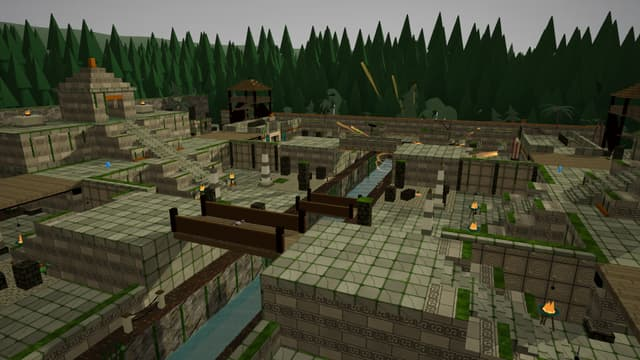
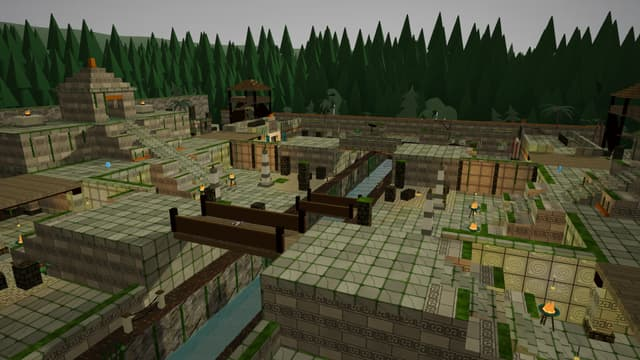
Jungle Ruins refresh: Vinefall Sanctum QA report, map card recaptured, HANDOFF
Checks after merging main: typecheck, test:changed (3 load timeouts pass alone),
bundle 824.1 kB gzip / 2922.9 kB raw, validate-map on vinefall_sanctum and the old
jungle maps, e2e editor, editorux, maps, visual (CI=1) all pass.

Claude-Session: https://claude.ai/code/session_01PfNGaHafsFeFAcWZgUEzoB

diff --git a/HANDOFF.md b/HANDOFF.md
@@ -289,7 +289,7 @@ lantern(_post), banners, signpost, wooden fences. New in-house: timber/plaster h
 square, town gate, bell tower, bridge, well, shop fronts, awnings, balconies, cobble/market/road materials.
 Meshy candidates awaiting approval: blacksmith forge, hay cart, covered well, tarp tent.
 
-### Jungle Ruins refresh (`wip/jungle-ruins-pack`, agent, 2026-10-31; stopped early, not merged)
+### Jungle Ruins refresh (`wip/jungle-ruins-pack`, agent, 2026-10-31; main merged in, ready for a check branch, not merged)
 Owner sheets TILESET 04 Jungle Ruins + TILESET 07 Ancient Temple, combined into Style Pack 06 Jungle Ruins.
 - **Done (committed):** 20 new tiles in `packages/shared/src/map/packTilesJungle.ts` (Temple Terrace, Terrace
   Stair (stack them a level up into ziggurats), Carved Temple 2 × 1 (gate on the west cell's south edge fits the
@@ -309,11 +309,26 @@ Owner sheets TILESET 04 Jungle Ruins + TILESET 07 Ancient Temple, combined into 
 - **Zipline:** no zipline mechanic exists (only the Grapple Hook). `jt_zipline_post` is scenery; the pack lists
   the Grapple Hook to cross between posts. A real zipline ride is an owner decision (new movement mechanic).
 - **Stand-ins (stable ids, Meshy only with owner approval):** jt_statue_large, jt_crane, jt_zipline_post.
-- **Not done / next:** BUILDING_KIT "06 Jungle Ruins" section (note Ancient Temple folded in; list the above),
-  CHANGELOG Unreleased line, `docs/map-briefs/vinefall_sanctum/` manifest/QA/decisions docs (like market_town),
-  e2e (editor, editorux, maps E2E_MAPS=vinefall_sanctum,jungle_steps, visual) not run; full `pnpm test:changed`
-  not run (jungle, kit, stylePacks*, content:check, typecheck, build passed). Bot audit/perf not run. Map's
-  `metadata.release` came from MapMaker's Export (other repo maps have none; strip if preferred).
+- **Merged with main (2026-10-31 evening):** main (Medieval fixes, Harbor 11, Snow 12, Desert City 09) merged in;
+  the shared pack files took main's version with the jungle additions re-applied next to the other packs
+  (PatternId / PAINTERS / FINE_PATTERNS, materials, `core.ancient_temple` theme and backdrop, catalog import,
+  STYLE_PACKS entry keeps `/* @__PURE__ */`). No id collisions (patterns slabs/fret/relief/inlay/roots/thatch,
+  the 8 materials, theme, jt_* props, jungle.* tiles are all unique), so nothing renamed. Generated files rebuilt
+  as "Work split" says: props.json/lock = main's + jungle entries, prepare-props (prop GLBs byte-identical, only
+  jt_* added), palette atlases (tiles 247, ancient 96), content:build → provenance, content:check OK. Map card
+  recaptured with capture-map-shots.mjs (in-match render works). `metadata.release` stripped from the map.
+- **Docs done:** BUILDING_KIT "06 Jungle Ruins refresh (Ancient Temple folded in)" + the 06 table row (and the
+  Style Packs intro, which main's merges had left with three copies of one sentence); CHANGELOG Unreleased (pack
+  under MapMaker, map under Maps); `docs/map-briefs/vinefall_sanctum/` manifest, decisions, QA; README row.
+  The `_jdebug*.test.ts` scratch tests were never committed (none on the branch).
+- **Checks (local, after the merge):** typecheck OK; `pnpm test:changed` 1164 passed, 3 timed out under machine
+  load (host.test, match 32-bot, sandgate nav) and passed when rerun alone; bundle budget 824.1 kB gzip /
+  2922.9 kB raw (budget 840 / 3000); validate-map 0 issues on vinefall_sanctum, jungle_steps, verdant_ziggurat,
+  erosion; e2e (CI=1) editor, editorux, maps (E2E_MAPS=vinefall_sanctum,jungle_steps), visual all PASS.
+  `pnpm ci:plan` wants the full suite (assets-src/ counts as shared), so push to `check/jungle` and expect ~8 shards.
+- **Open:** CI on a check branch, then fast-forward main (the lead's call). Bot audit / perf on Vinefall Sanctum
+  not run. **Owner questions:** a real zipline ride (new movement mechanic) vs posts as scenery + Grapple Hook
+  (current); Meshy hero versions of jt_statue_large, jt_crane, jt_zipline_post.
 - **Sheet notes (pictures are gone with the container):** TILESET 04: weathered mossy stone, tropical; vignettes
   of overgrown temple courtyards, waterfalls, rope bridges over chasms, torch-lit stairs; red banners with a gold
   emblem. TILESET 07: sandstone with teal-and-gold inlay tiles, teal/gold banners, wall torches, hanging braziers,

diff --git a/docs/map-briefs/vinefall_sanctum/QA_REPORT.md b/docs/map-briefs/vinefall_sanctum/QA_REPORT.md
@@ -1,0 +1,19 @@
+# Vinefall Sanctum: QA report (2026-10-31)
+
+| Check | Result | How |
+|---|---|---|
+| Saved in the real format, loads with no warnings or lost objects | **PASS** | `loadMap` (test `stylePacksJungle.test.ts` "The pack's demo map"); e2e `maps` with `E2E_MAPS=vinefall_sanctum,jungle_steps` (CI=1: the match starts, you spawn on solid ground; opens in MapMaker through Import with nothing lost) |
+| Validation incl. navigation | **PASS** | `pnpm validate-map maps/vinefall_sanctum.json`: OK (0 issues): every spawn, pickup and objective reachable on foot |
+| Landmarks identifiable | **PASS** | overhead MapMaker shot `screenshots/mapmaker-overview.jpg` (gorge and bridges, ziggurats and shrines, carved temples, waterfall walls, watch towers) |
+| Collision on every structure, stair, bridge | **PASS** (tiles) | `stylePacksJungle.test.ts`: bots walk the terrace stairs (stacked too), the temple roof and the colonnade roof beside it, the shrine, the watch tower lookout, both high bridge spans, the chasm rope bridge, the gorge steps, the arch wall, the vaults and the passage behind the falls in all four rotations; every tile validates on its own; `kit.test.ts` |
+| Shrine snipers, high bridges, gorge pickups reachable | **PASS** | navigation check (validate-map: every pickup on the navmesh from the spawns) |
+| Spawns not in geometry / hazards | **PASS** | validate-map (spawns on the navmesh); placed in yards and courts clear of tiles |
+| Spawn line of fire, spawn kills at target count | **NOT TESTED** | |
+| CTF flags reachable by both teams | **PASS** | navigation check |
+| Pickup ids resolve | **PASS** | validate-map |
+| Maps that use the earlier Jungle Ruins pieces | **PASS** | `stylePacksJungle.test.ts` loads and validates every map using jungle pieces (Verdant Ziggurat, Erosion, Jungle Steps, Sunken Kingdom and the rest); validate-map OK (0 issues) on jungle_steps, verdant_ziggurat, erosion; e2e `maps` on jungle_steps |
+| Bot match | **NOT RUN** | the bot audit (`botAudit.test.ts`) was not run on this map |
+| 16–24 players, 96-bot stress | **NOT TESTED** | |
+| Performance | **NOT MEASURED** | 195 tiles, 130 props |
+| In-game look | **Looked at** | screenshots in play (`screenshots/view-*.jpg`) and the automatic map card (`tools/content/capture-map-shots.mjs`, an in-match render, recaptured after the merge with main) |
+| Manual walk-through of every route on a real GPU | **NOT TESTED** | routes checked on the navmesh only |
